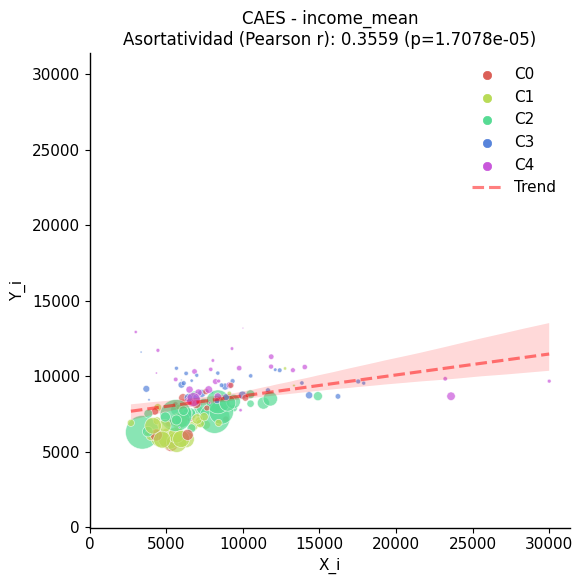
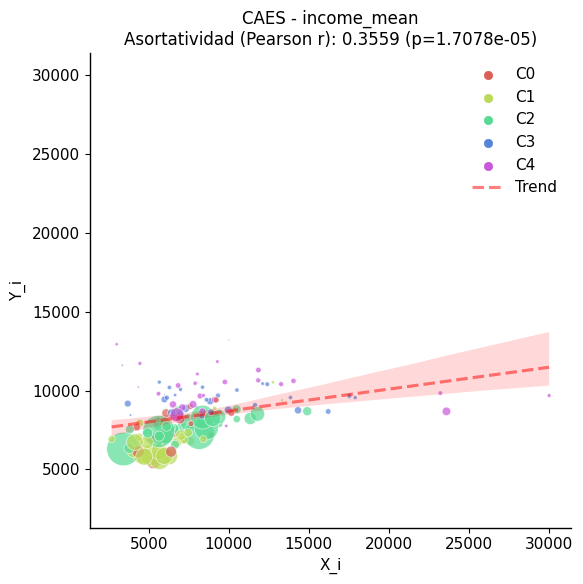
Improve edge weight correlation scripts

diff --git a/scripts/05_edge_weight_correlation.py b/scripts/05_edge_weight_correlation.py
@@ -53,6 +53,7 @@ def main() -> None:
 	feature_map = plot_df.set_index(id_col)[feature_name].to_dict()
 	community_map = plot_df.set_index(id_col)[community_col].to_dict()
 	node_size_map = plot_df.set_index(id_col)["n_obs"].to_dict()
+	highlight_communities = utils.get_top_communities(community_map, top_n=8)
 
 	from seaborn import hls_palette
 
@@ -70,7 +71,7 @@ def main() -> None:
 		color_map=color_map,
 		community_map=community_map,
 		node_size_map=node_size_map,
-		highlight_communities=set(community_map.values()),
+		highlight_communities=highlight_communities,
 		title=default_title,
 		output_path=snakemake.output[0],
 		save=True,

diff --git a/src/utils.py b/src/utils.py
@@ -83,3 +83,15 @@ def _as_bool(value: object) -> bool:
 	if isinstance(value, str):
 		return value != "non_logscale"
 	raise ValueError(f"Invalid boolean value for logscale: {value!r}")
+
+
+def get_top_communities(community_map: dict[int, str], top_n: int = 5) -> set[str]:
+	"""Identify the top N communities by node count."""
+	if top_n <= 0 or top_n >= len(set(community_map.values())):
+		return set(community_map.values())
+
+	from collections import Counter
+
+	community_counts = Counter(community_map.values())
+	top_communities = {c for c, _ in community_counts.most_common(top_n)}
+	return top_communities

diff --git a/src/plotting.py b/src/plotting.py
@@ -1849,8 +1849,11 @@ def compute_and_plot_edge_correlation(
 	)
 	plt.xlabel("X_i")
 	plt.ylabel("Y_i")
-	plt.xlim(axis_min, axis_max)
-	plt.ylim(axis_min, axis_max)
+	# Set y-limits to be the same as x-limits to maintain a square aspect ratio
+	print(
+		f"Axis limits: x=({axis_min:.2f}, {axis_max:.2f}), y=({axis_min:.2f}, {axis_max:.2f})"
+	)
+	plt.ylim(plt.xlim())
 	sort_labels()
 
 	# Generate Assortativity Scatter Plot (Node value vs Average Neighbor Value)
